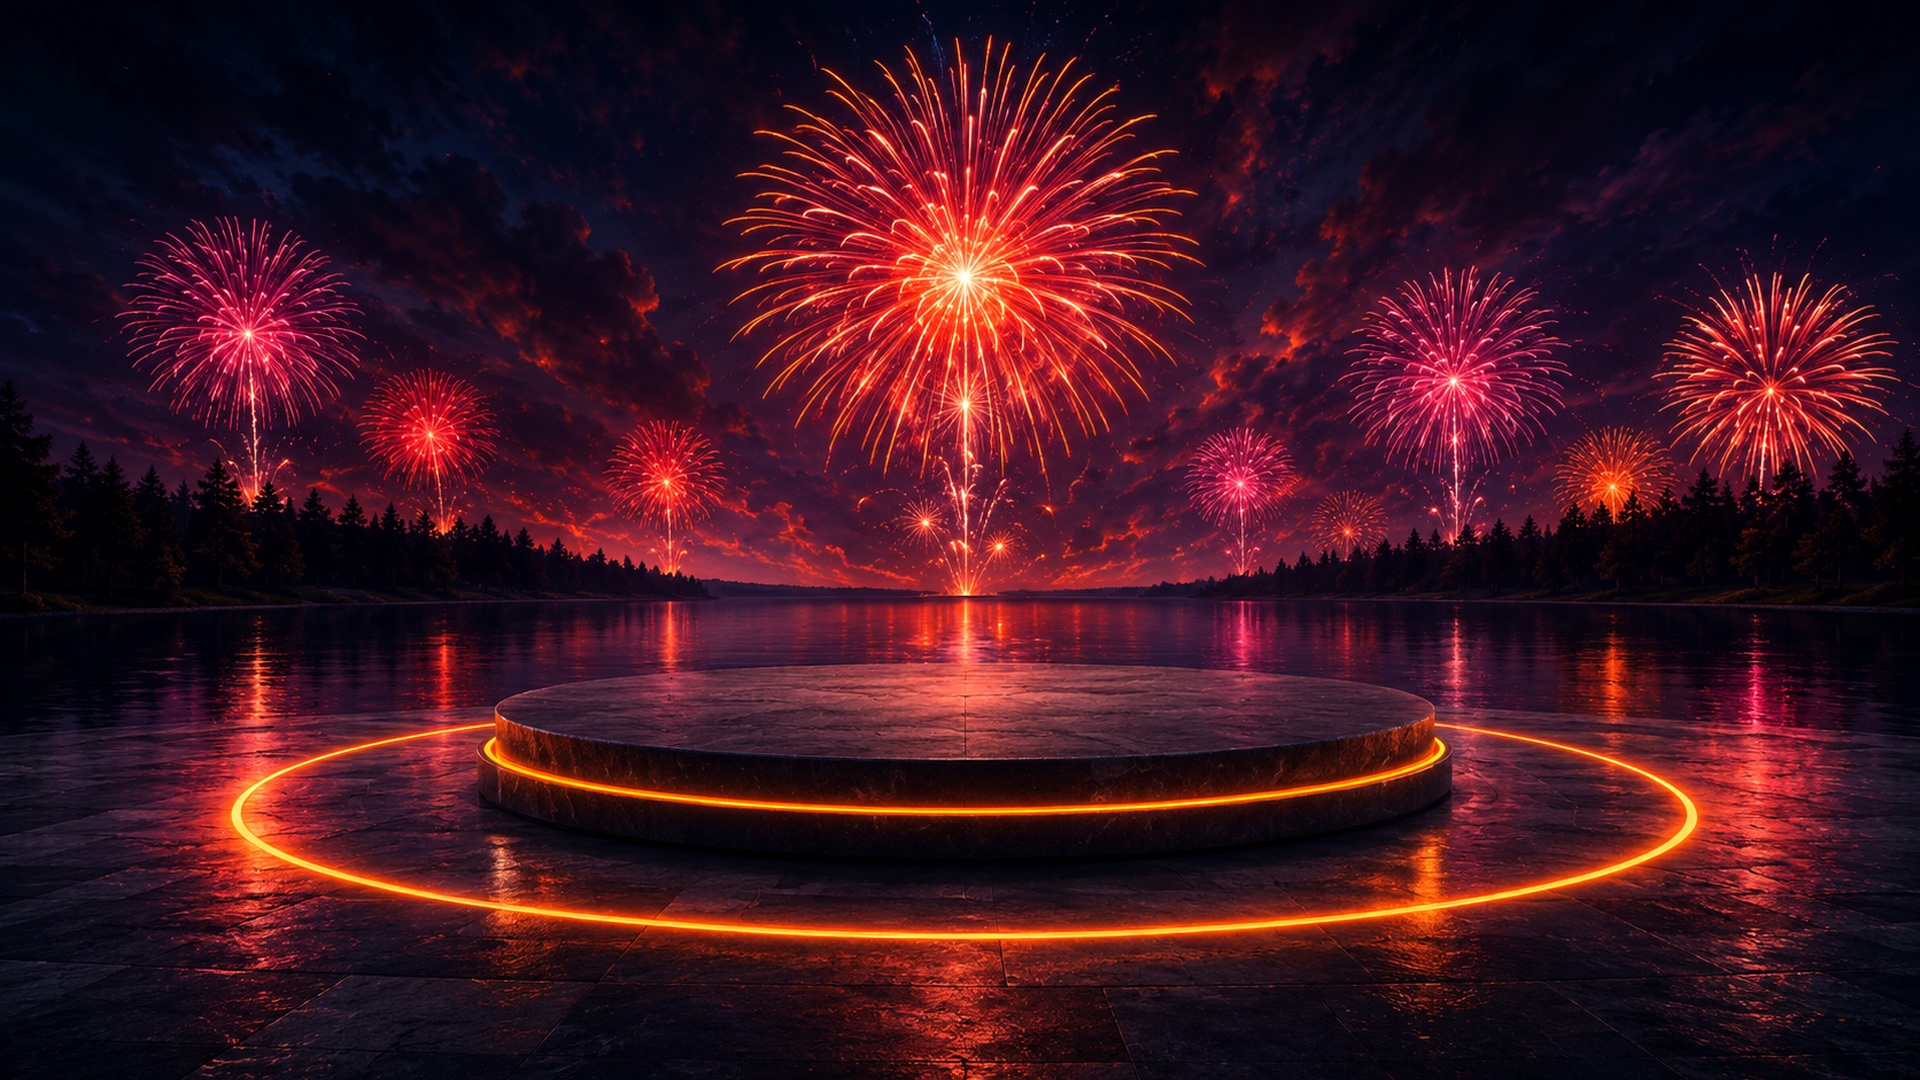
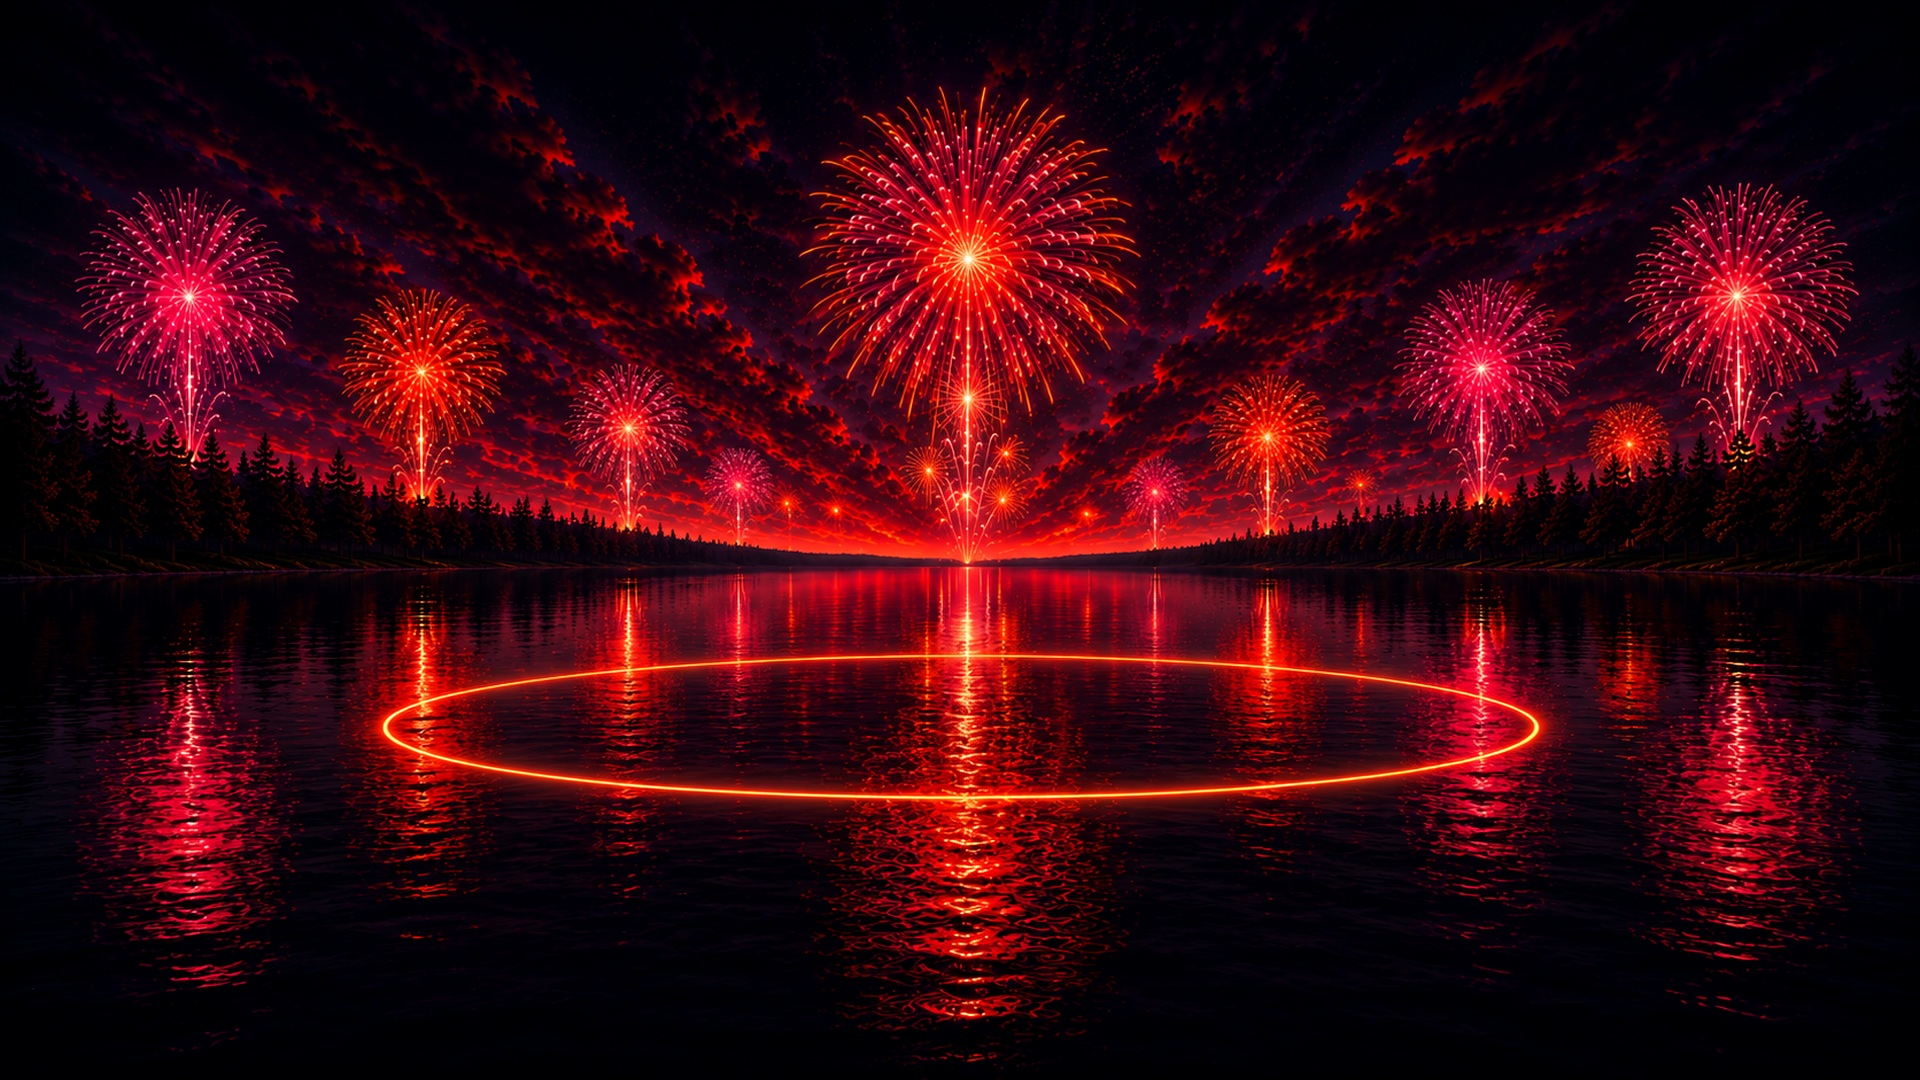
Add files via upload

diff --git a/index.html b/index.html
@@ -2098,14 +2098,13 @@ button,input,textarea{font:inherit}button{cursor:pointer}a{color:inherit}
 
 
 /* =========================
-   V73 LIVE CLEAN BACKGROUND
+   V74 LIVE BACKGROUND UPDATE
    Built from V71.
-   This is NOT a test background.
-   It replaces the page background with the clean uploaded firework/platform image:
+   New production background:
    assets/background-live.jpg
 
-   Removed the accidental screenshot/map background path by rebuilding from V71,
-   not V72.
+   Uses the generated water + fireworks + orange ring background.
+   No test/screenshot/map background.
 ========================= */
 
 :root{
@@ -2117,14 +2116,13 @@ button,input,textarea{font:inherit}button{cursor:pointer}a{color:inherit}
   background:var(--bg-d) center center / cover no-repeat !important;
 }
 
-/* Keep the clean uploaded background visible. */
 .page::before{
   background:
-    linear-gradient(180deg,rgba(0,0,0,.56) 0,rgba(0,0,0,.18) 13%,rgba(0,0,0,0) 30%,rgba(0,0,0,0) 72%,rgba(0,0,0,.70) 100%),
-    radial-gradient(circle at 50% 44%,rgba(255,111,46,.035),transparent 46%) !important;
+    linear-gradient(180deg,rgba(0,0,0,.34) 0,rgba(0,0,0,.08) 18%,rgba(0,0,0,0) 48%,rgba(0,0,0,.68) 100%),
+    radial-gradient(circle at 50% 56%,rgba(255,90,38,.035),transparent 48%) !important;
 }
 
-/* Hard guard: no V72/test background selectors. */
+/* Guardrail: prevent any older test background layers from showing. */
 .scene,
 .hero,
 .stage,
@@ -2142,7 +2140,7 @@ button,input,textarea{font:inherit}button{cursor:pointer}a{color:inherit}
 
 </style>
 </head>
-<body data-build="v73-live-clean-uploaded-background">
+<body data-build="v74-dalle-ring-water-background">
 <main class="page">
   <header class="header">
     <a class="logo" href="#" data-go="videos" aria-label="Discount Fireworks Outlet home">
@@ -2596,7 +2594,7 @@ setInterval(countdown, 1000);
 </script>
 
 <div class="calibration-panel" aria-hidden="true">
-  <b>V73 HIDDEN CALIBRATION</b>
+  <b>V74 HIDDEN CALIBRATION</b>
   <div>Press <strong>D</strong> to hide/show pins.</div>
   <div style="margin-top:8px;">Edit <code>SLOT_CONFIG</code> near the top of the script.</div>
   <code>-2 far-left
